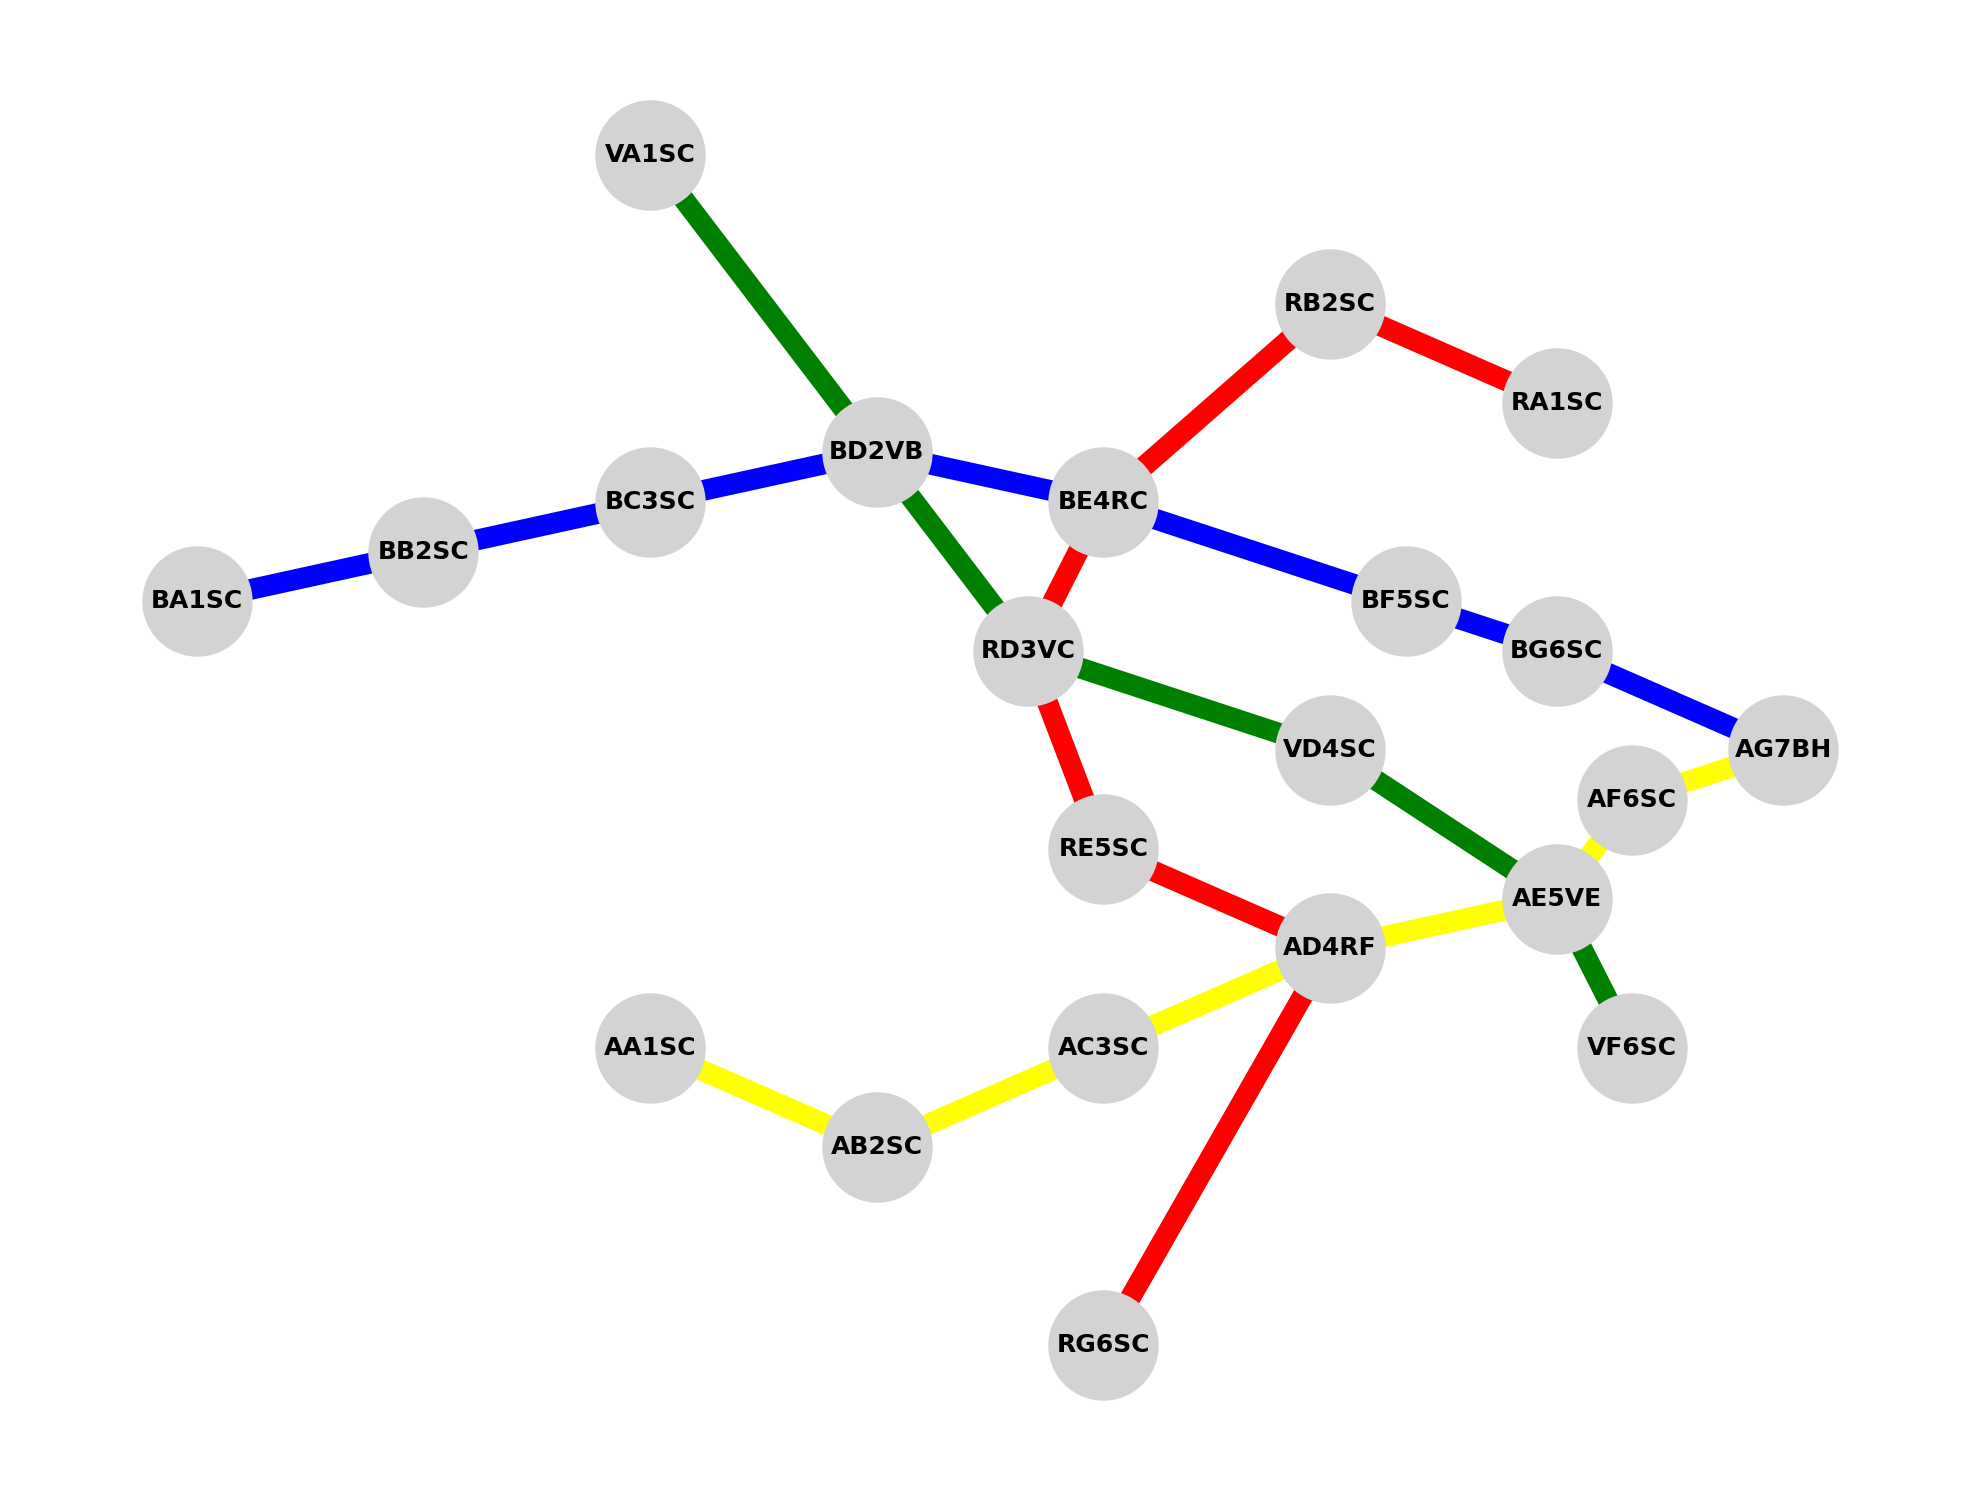
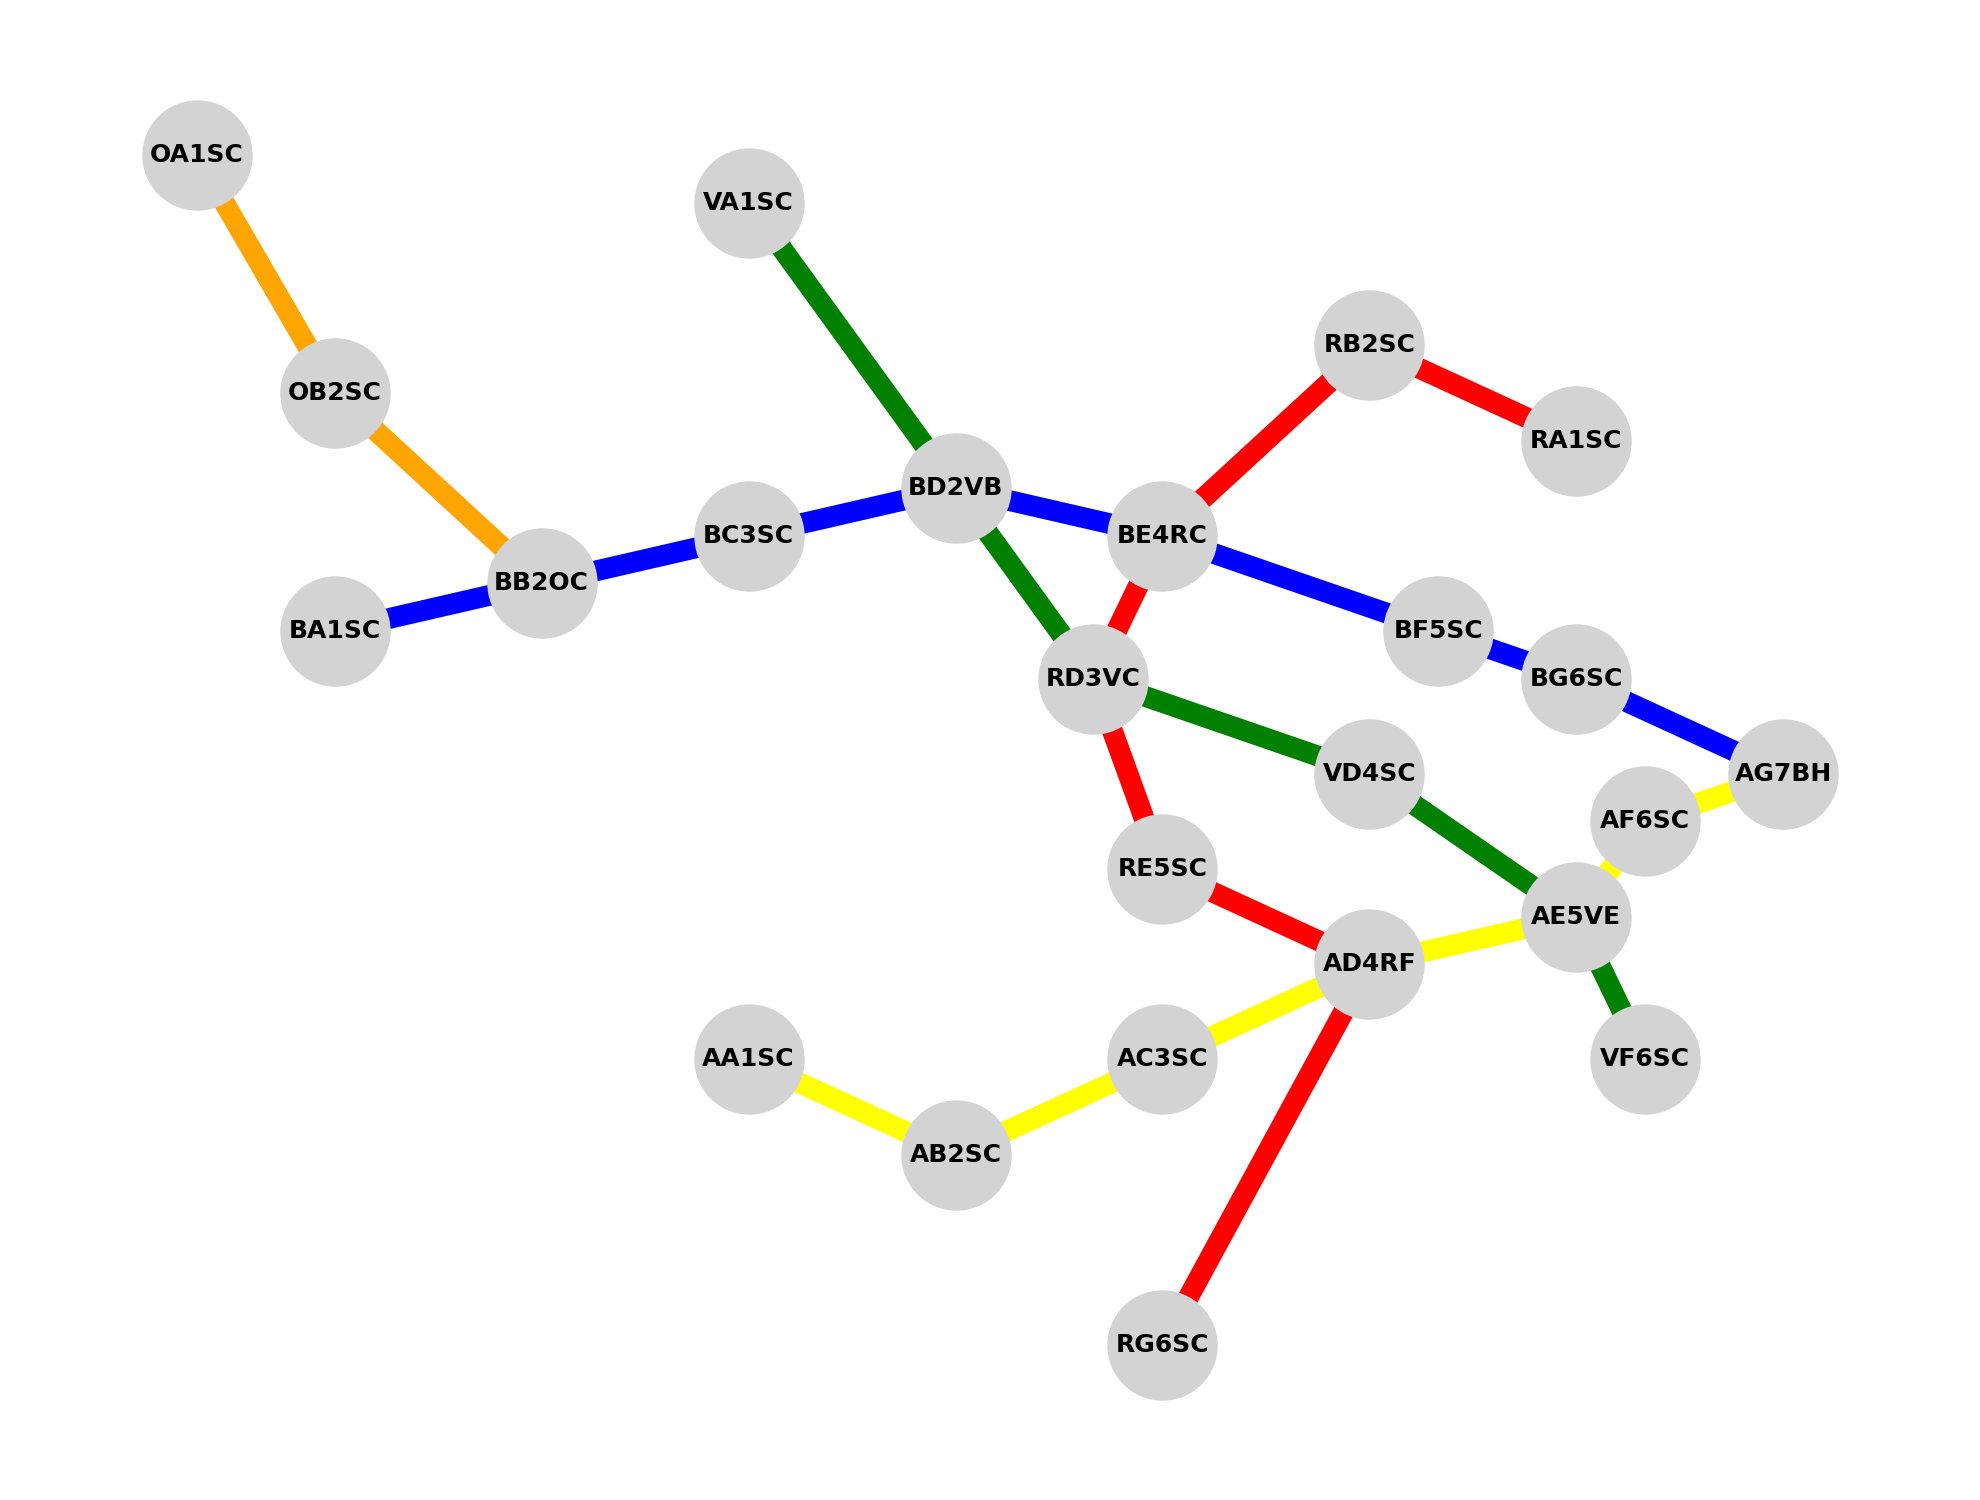
Agregada linea naranja

Changed region(s): [[0.0616, 0.0613, 0.9242, 0.9507], [0.0616, 0.0613, 0.154, 0.1533]]

diff --git a/week_one/experimento_generico/construccion_de_json.py b/week_one/experimento_generico/construccion_de_json.py
@@ -11,9 +11,9 @@ sistema_generico= {
             "sentido_vuelta":["AG7BH","AF6SC","AE5VE","AD4RF","AC3SC","AB2SC","AA1SC"]
         },
         "azul": {
-            "estaciones": ["BA1SC","BB8SC","BC3SC","BD2VB","BE4RC","BF5SC","BG6SC","AG7BH"],
-            "sentido_ida":["BA1SC","BB2SC","BC3SC","BD2VB","BE4RC","BF5SC","BG6SC","AG7BH"],
-            "sentido_vuelta":["AG7BH","BG6SC","BF5SC","BE4RC","BD2VB","BC3SC","BB2SC","BA1SC"]
+            "estaciones": ["BA1SC","BB2OC","BC3SC","BD2VB","BE4RC","BF5SC","BG6SC","AG7BH"],
+            "sentido_ida":["BA1SC","BB2OC","BC3SC","BD2VB","BE4RC","BF5SC","BG6SC","AG7BH"],
+            "sentido_vuelta":["AG7BH","BG6SC","BF5SC","BE4RC","BD2VB","BC3SC","BB2OC","BA1SC"]
         },
         "roja": {
             "estaciones":["RA1SC","RB2SC","BE4RC","RD3VC","RE5SC","AD4RF","RG6SC"],
@@ -24,6 +24,11 @@ sistema_generico= {
             "estaciones": ["VA1SC","BD2VB","RD3VC","VD4SC","AE5VE","VF6SC"],
             "sentido_ida":["VA1SC","BD2VB","RD3VC","VD4SC","AE5VE","VF6SC"],
             "sentido_vuelta":["VF6SC","AE5VE","VD4SC","RD3VC","BD2VB","VA1SC"]
+        },
+        "naranja":{
+            "estaciones": ["OA1SC","OB2SC","BB2OC"],
+            "sentido_ida":["OA1SC","OB2SC","BB2OC"],
+            "sentido_vuelta":["BB2OC","OB2SC","OA1SC"]
         }
 
 
@@ -39,7 +44,8 @@ color_map = {
     "amarilla": "yellow",
     "azul": "blue",
     "roja": "red",
-    "verde": "green"
+    "verde": "green",
+    "naranja": "orange"
 }
 
 # Creamos un grafo
@@ -54,9 +60,10 @@ for color, info in sistema_generico["lineas"].items():
 # Posiciones manuales para evitar superposición
 pos = {
     "AA1SC": (0,0), "AB2SC": (3,-2), "AC3SC": (6,0), "AD4RF": (9,2), "AE5VE": (12,3), "AF6SC":(13,5),"AG7BH": (15,6),
-    "BA1SC": (-6,9), "BB2SC": (-3,10), "BC3SC": (0,11), "BD2VB": (3,12), "BE4RC": (6,11), "BF5SC": (10,9), "BG6SC": (12,8),
+    "BA1SC": (-6,9), "BB2OC": (-3,10), "BC3SC": (0,11), "BD2VB": (3,12), "BE4RC": (6,11), "BF5SC": (10,9), "BG6SC": (12,8),
     "RA1SC": (12,13), "RB2SC": (9,15), "RD3VC": (5,8), "RE5SC": (6,4), "RG6SC": (6,-6),
-    "VA1SC": (0,18), "VD4SC": (9,6), "VF6SC": (13,0)
+    "VA1SC": (0,18), "VD4SC": (9,6), "VF6SC": (13,0),
+    "OA1SC": (-8,19), "OB2SC": (-6,14)
 }
 
 # Dibujamos el grafo

diff --git a/week_one/experimento_generico/README.md b/week_one/experimento_generico/README.md
@@ -17,12 +17,12 @@ del uso de información y la limitacion de capacidades.
 
 2. **Generación de datos**:  
    Se generaron datos ficticios para las estaciones y líneas del metro, manteniendo el concepto de color en las líneas, como en los metros de Madrid, Londres o Nueva York.  
-   Aquí se tienen las líneas de color amarillo, azul, rojo y verde. Adicionalmente, se realizó una codificación de las estaciones con el fin de incluso romper la tokenización del modelo:  
+   Aquí se tienen las líneas de color amarillo, azul, rojo, verde y naranja. Adicionalmente, se realizó una codificación de las estaciones con el fin de incluso romper la tokenización del modelo:  
 
    - La codificación de las estaciones es **AB#CD**.  
-   - Donde **A** obedece al color de la línea (A = Amarillo, B = Azul, R = Rojo, V = Verde).  
+   - Donde **A** obedece al color de la línea (A = Amarillo, B = Azul, O = Naranja ,R = Rojo, V = Verde).  
    - Donde **B** es la letra en orden alfabético para la estación (en el caso de la línea A va de AA a AG).  
-   - **#** obedece al número de conteo de la línea predominante; aunque puede ocurrir que por el cruce la numeración se repita para la estación, lo cual no es un problema ya que se busca confundir al modelo y “romper” su tokenización.  
+   - **#** obedece al número de conteos de la línea predominante; aunque puede ocurrir que por el cruce la numeración se repita para la estación, lo cual no es un problema ya que se busca confundir al modelo y “romper” su tokenización.  
    - **CD** corresponde al cruce de línea y estación. Puede ser la secuencia **SC** (Sin Conexión) o la línea y estación en donde se cruza. Ejemplos:  
      - **AD4RF** = Es la cuarta estación de la línea A (amarilla); por eso la letra es D. Se cruza con la línea R en la estación F. La numeración 4 corresponde al conteo predominante de la línea A.  
      - **AF6SC** = Es la sexta estación de la línea amarilla; por eso la letra es F. No tiene conexión con ninguna otra línea.  
